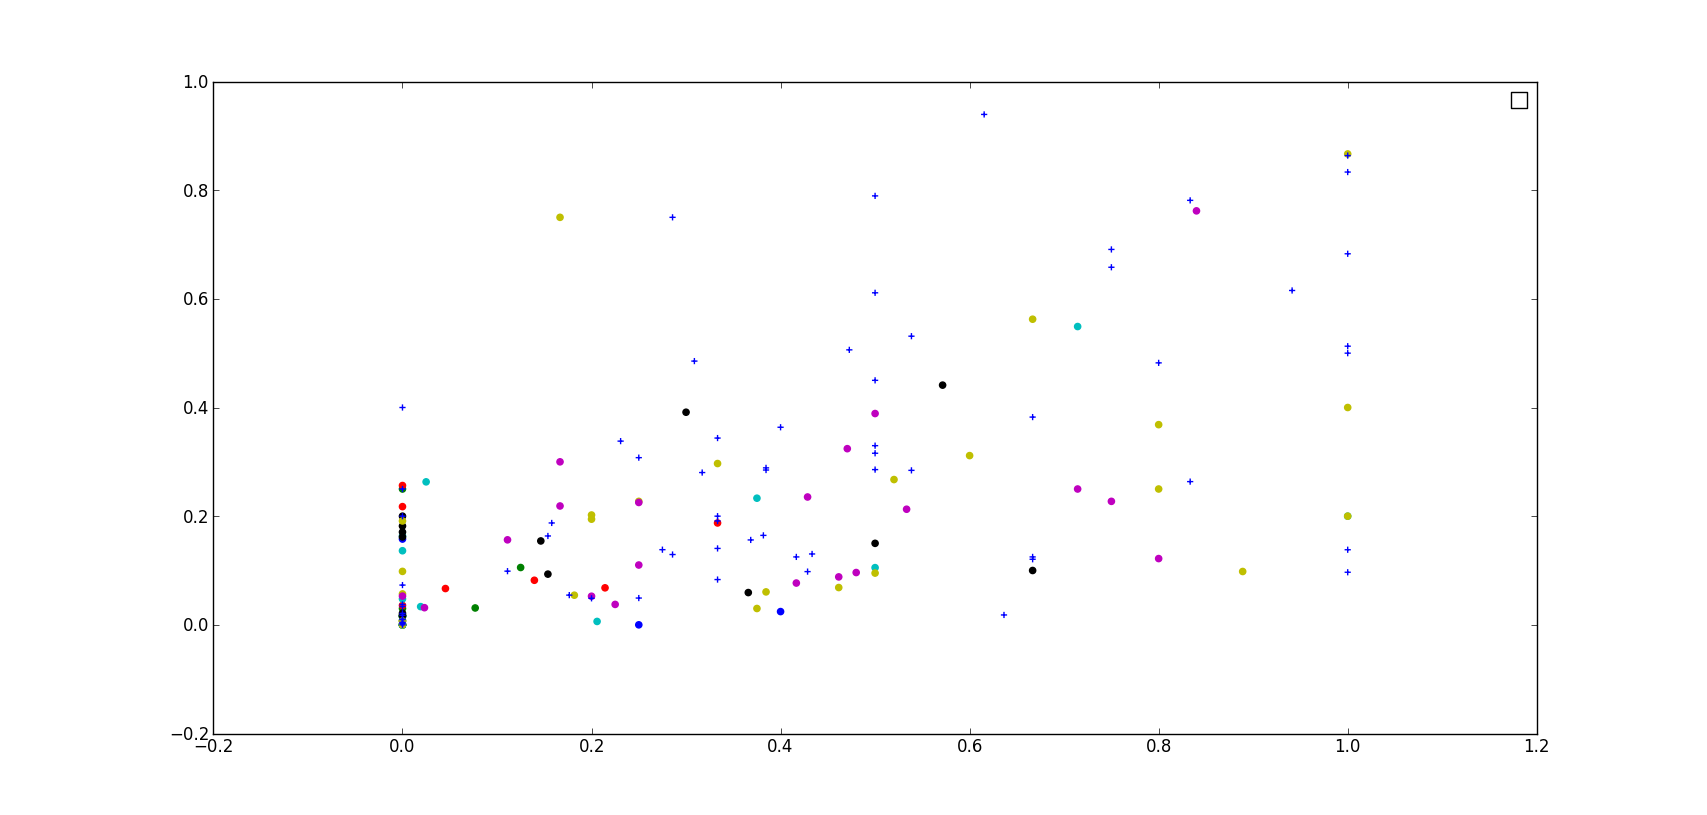
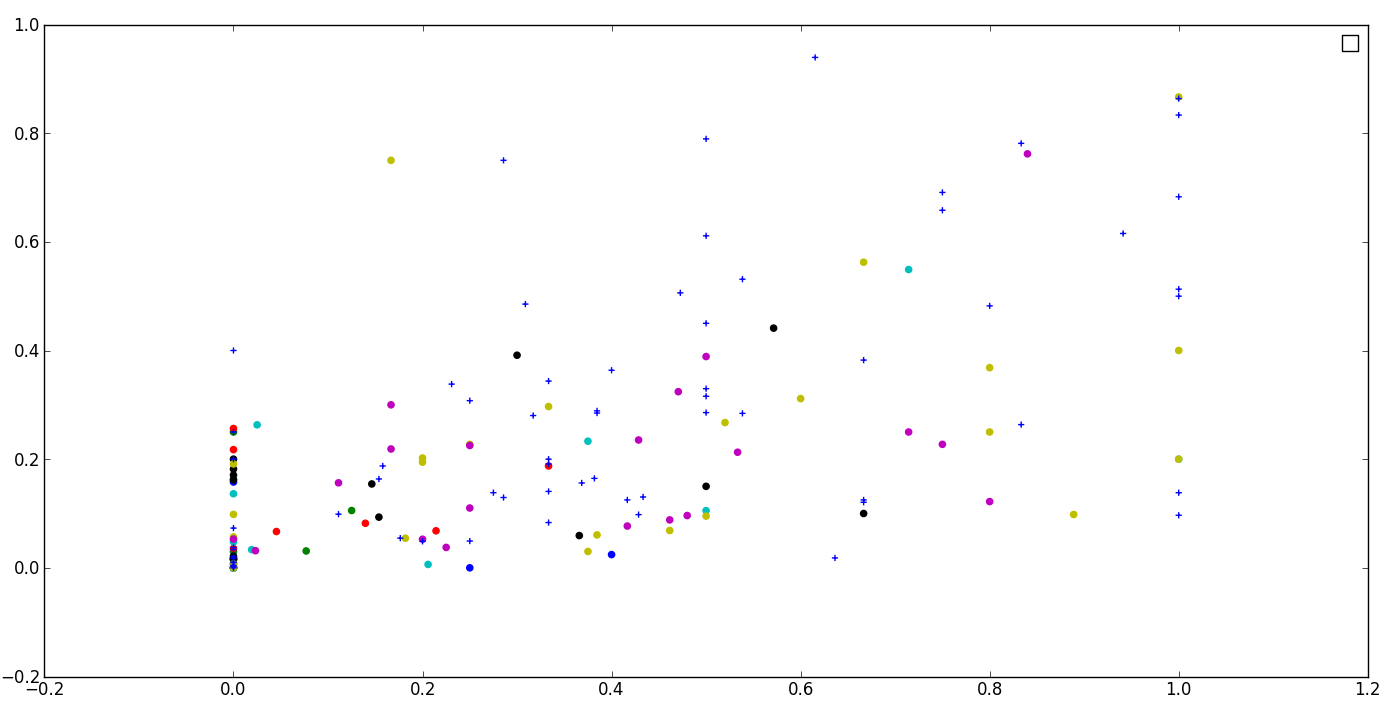
Correction made in the regression model

diff --git a/codes/NationalitiesLinReg.py b/codes/NationalitiesLinReg.py
@@ -6,7 +6,7 @@ from sklearn.decomposition import PCA
 import json
 import codecs
 from pprint import pprint
-from sklearn import linear_model
+from sklearn import linear_model, svm
 from sklearn.cross_validation import train_test_split
 from sklearn import preprocessing
 import matplotlib.pyplot as plt
@@ -36,8 +36,9 @@ class NationalitiesLinearRegression():
 
         self.getDimensionalityReductionModel(toReduce=toReduce)
         self.trainRegressionModel(self.trainX_red, self.trainY.toarray())
+        self.predict(accuracyFlag=True, toReduce=toReduce, model=model)
 
-        # self.predict(accuracyFlag=True, toReduce=toReduce, model=model)
+        # self.performCV(self.trainX_red, self.trainY.toarray(),folds=5)
 
     def readDomains(self, domainFile):
         f = open(domainFile, 'r')
@@ -76,6 +77,7 @@ class NationalitiesLinearRegression():
     def getTrainMatrices(self, trainFile, model=1):
         trainYdict = {}
         f = codecs.open(trainFile, mode='r', encoding='utf-8')
+
         for line in f.readlines():
             line = line.strip()
             l = line.split('\t')
@@ -114,17 +116,21 @@ class NationalitiesLinearRegression():
         else:
             if inputTuple[0] not in self.people2ID:
                 return 0
+
             rowID = self.people2ID[inputTuple[0]]
             colID = self.domain2ID[inputTuple[1]]
-            if toReduce:    # Assumed that model=1. toReduce=1 and model=2 not allowed!
-                testRow = self.reductionModel.transform(self.features[rowID,:].toarray())
-            else:
-                if model == 1:
+
+            if model == 1:
+                if toReduce:    # Assumed that model=1. toReduce=1 and model=2 not allowed!
+                    testRow = self.reductionModel.transform(self.features[rowID,:].toarray())
+                else:
                     testRow = self.features[rowID,:].toarray()
-                    return np.dot(testRow, self.linearWeights[:,colID])
-                elif model == 2:
-                    testRow = [self.ftr0[rowID,colID], self.ftr1[rowID,colID]]
-                    return np.dot(testRow, self.linearWeights)
+                return self.regModel.predict(testRow)[0][colID]
+                # return np.dot(testRow, self.linearWeights[:,colID])+self.regModel.intercept_
+            elif model == 2:
+                testRow = [self.ftr0[rowID,colID], self.ftr1[rowID,colID]]
+                return self.regModel.predict(testRow)
+                # return np.dot(testRow, self.linearWeights)+self.regModel.intercept_
 
     def predict(self, accuracyFlag=False, toReduce=True, model=1):
         # This is for the train-test split. Given a file with test tuples in it,
@@ -135,27 +141,26 @@ class NationalitiesLinearRegression():
         if accuracyFlag:
             comparison = []
             diff = []
-
         for idx, line in enumerate(f1.readlines()):
             lineSplit = line.strip().split('\t')
             inputTuple = (lineSplit[0], lineSplit[1])
             score = self.getLinRegScore(inputTuple, toReduce=toReduce, model=model)
+
             if score < 0:
                 score = 0
             elif score > 7:
                 score = 7
+
             if accuracyFlag:
                 truth = int(lineSplit[2])
                 score = np.ceil(score)
 
                 diff.append(abs(truth-score))
                 comparison.append(abs(truth-score)<=2)
-                # print inputTuple, score, truth
             f2.write(inputTuple[0]+'\t' + inputTuple[1] +'\t' + str(round(score))+'\n')
-
         if accuracyFlag:
             accuracy = float(sum(comparison)) / len(comparison)
-            print 'Accuracy: ', accuracy, '\nMean absolute error: ', np.mean(diff)
+            print 'Test Accuracy: ', accuracy, '\nMean absolute error: ', np.mean(diff)
 
         f1.close()
         f2.close()
@@ -177,28 +182,46 @@ class NationalitiesLinearRegression():
             self.testX_red = self.reductionModel.transform(self.testX)
 
     def trainRegressionModel(self, trainX, trainY):
-        X_train, X_test, y_train, y_test = train_test_split(trainX, trainY,test_size=0.2,random_state=0)
-
         # self.regModel = linear_model.LinearRegression()
-        # self.regModel = linear_model.Lasso(alpha=0.00001)
-        # self.regModel = linear_model.Ridge(alpha=0.01)
+        self.regModel = linear_model.Lasso(alpha=0.1)
+        # self.regModel = linear_model.Ridge(alpha=0.1)
         #poly = preprocessing.PolynomialFeatures(degree=2)
         #trainX = poly.fit_transform(trainX)
-
-        self.regModel = linear_model.Ridge(alpha=0.000001)
-
 
         #self.regModel = linear_model.BayesianRidge()
 
         self.regModel.fit(trainX, trainY)
-        # self.linearWeights = self.regModel.coef_.transpose()
-
-        self.regModel.fit(X_train, y_train)
-        print self.regModel.coef_
-        print self.regModel.score(X_test, y_test)
-
+        self.linearWeights = self.regModel.coef_.transpose()
         # print self.linearWeights
         # self.linearWeights = [70,1]
+
+    def performCV(self, trainX, trainY, folds):
+        sample = np.random.permutation(np.arange(trainY.shape[0]))
+        # sample = np.arange(trainY.size)
+        foldSize = int(trainY.shape[0]/folds)
+        totalCorrect = 0
+        for i in range(folds):
+            validationSet = sample[foldSize*i: foldSize*(i+1)].tolist()
+            trainingSet = sample[:foldSize*i].tolist() + sample[foldSize*(i+1):].tolist()
+
+            # self.regModel = linear_model.LinearRegression()
+            self.regModel = linear_model.Lasso(alpha=0.9)
+            # self.regModel = linear_model.Ridge(alpha=0.9)
+            # self.regModel = svm.SVC()
+
+            self.regModel.fit(trainX[trainingSet], trainY[trainingSet])
+            predY = np.ceil(self.regModel.predict(trainX[validationSet]))
+
+            predY[np.where(predY<0)]=0
+            predY[np.where(predY>7)]=7
+
+            # for i in range(len(validationSet)):
+            #     print predY[i], trainY[validationSet[i]]
+            # predY = np.reshape(predY, (len(predY),1))
+
+            accuracy = len(np.where(np.absolute(predY - trainY[validationSet])<=2)[0])
+            totalCorrect += accuracy
+        print 'CV Average Accuracy: ', float(totalCorrect) / len(trainY)
 
     def plotdata(self):
         # fig = plt.subplots()
@@ -242,8 +265,8 @@ if __name__ == '__main__':
     testFile = '../data/wsdm/accuracyTestLinearReg/nationalityTest.train'
     outputFile = '../data/wsdm/accuracyTestLinearReg/linearRegOutput.txt'
 
-    regObject = NationalitiesLinearRegression(domainFile, featureFile, trainFile, testFile, outputFile,toReduce=True, model=2)
+    regObject = NationalitiesLinearRegression(domainFile, featureFile, trainFile, testFile, outputFile,toReduce=False, model=1)
 
-    print('Time elapsed: ', time.time()-t0)
+    print 'Time elapsed: ', time.time()-t0
 
-    regObject.plotdata()
+    # regObject.plotdata()
